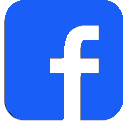
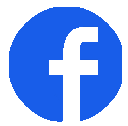
made the facebook picto a circle, though its kind of off

diff --git a/app/assets/stylesheets/application.css.scss b/app/assets/stylesheets/application.css.scss
@@ -152,7 +152,7 @@ aside {
 @include image-swap("#github", "http://i.imgur.com/VL0CmTh.png", "http://i.imgur.com/cV9JqmD.png");
 @include image-swap("#twitter", "http://i.imgur.com/jsZoXWv.png", "http://i.imgur.com/A6GtPwa.png");
 @include image-swap("#odin", "http://i.imgur.com/8YEVKWf.png", "http://i.imgur.com/KVp3TSg.png");
-@include image-swap("#facebook", "http://i.imgur.com/8OYPujA.png", "http://i.imgur.com/x4MxE2y.png");
+@include image-swap("#facebook", "http://i.imgur.com/NaL6EoR.png", "http://i.imgur.com/wVey78N.png");
 
 /* video page */
 
